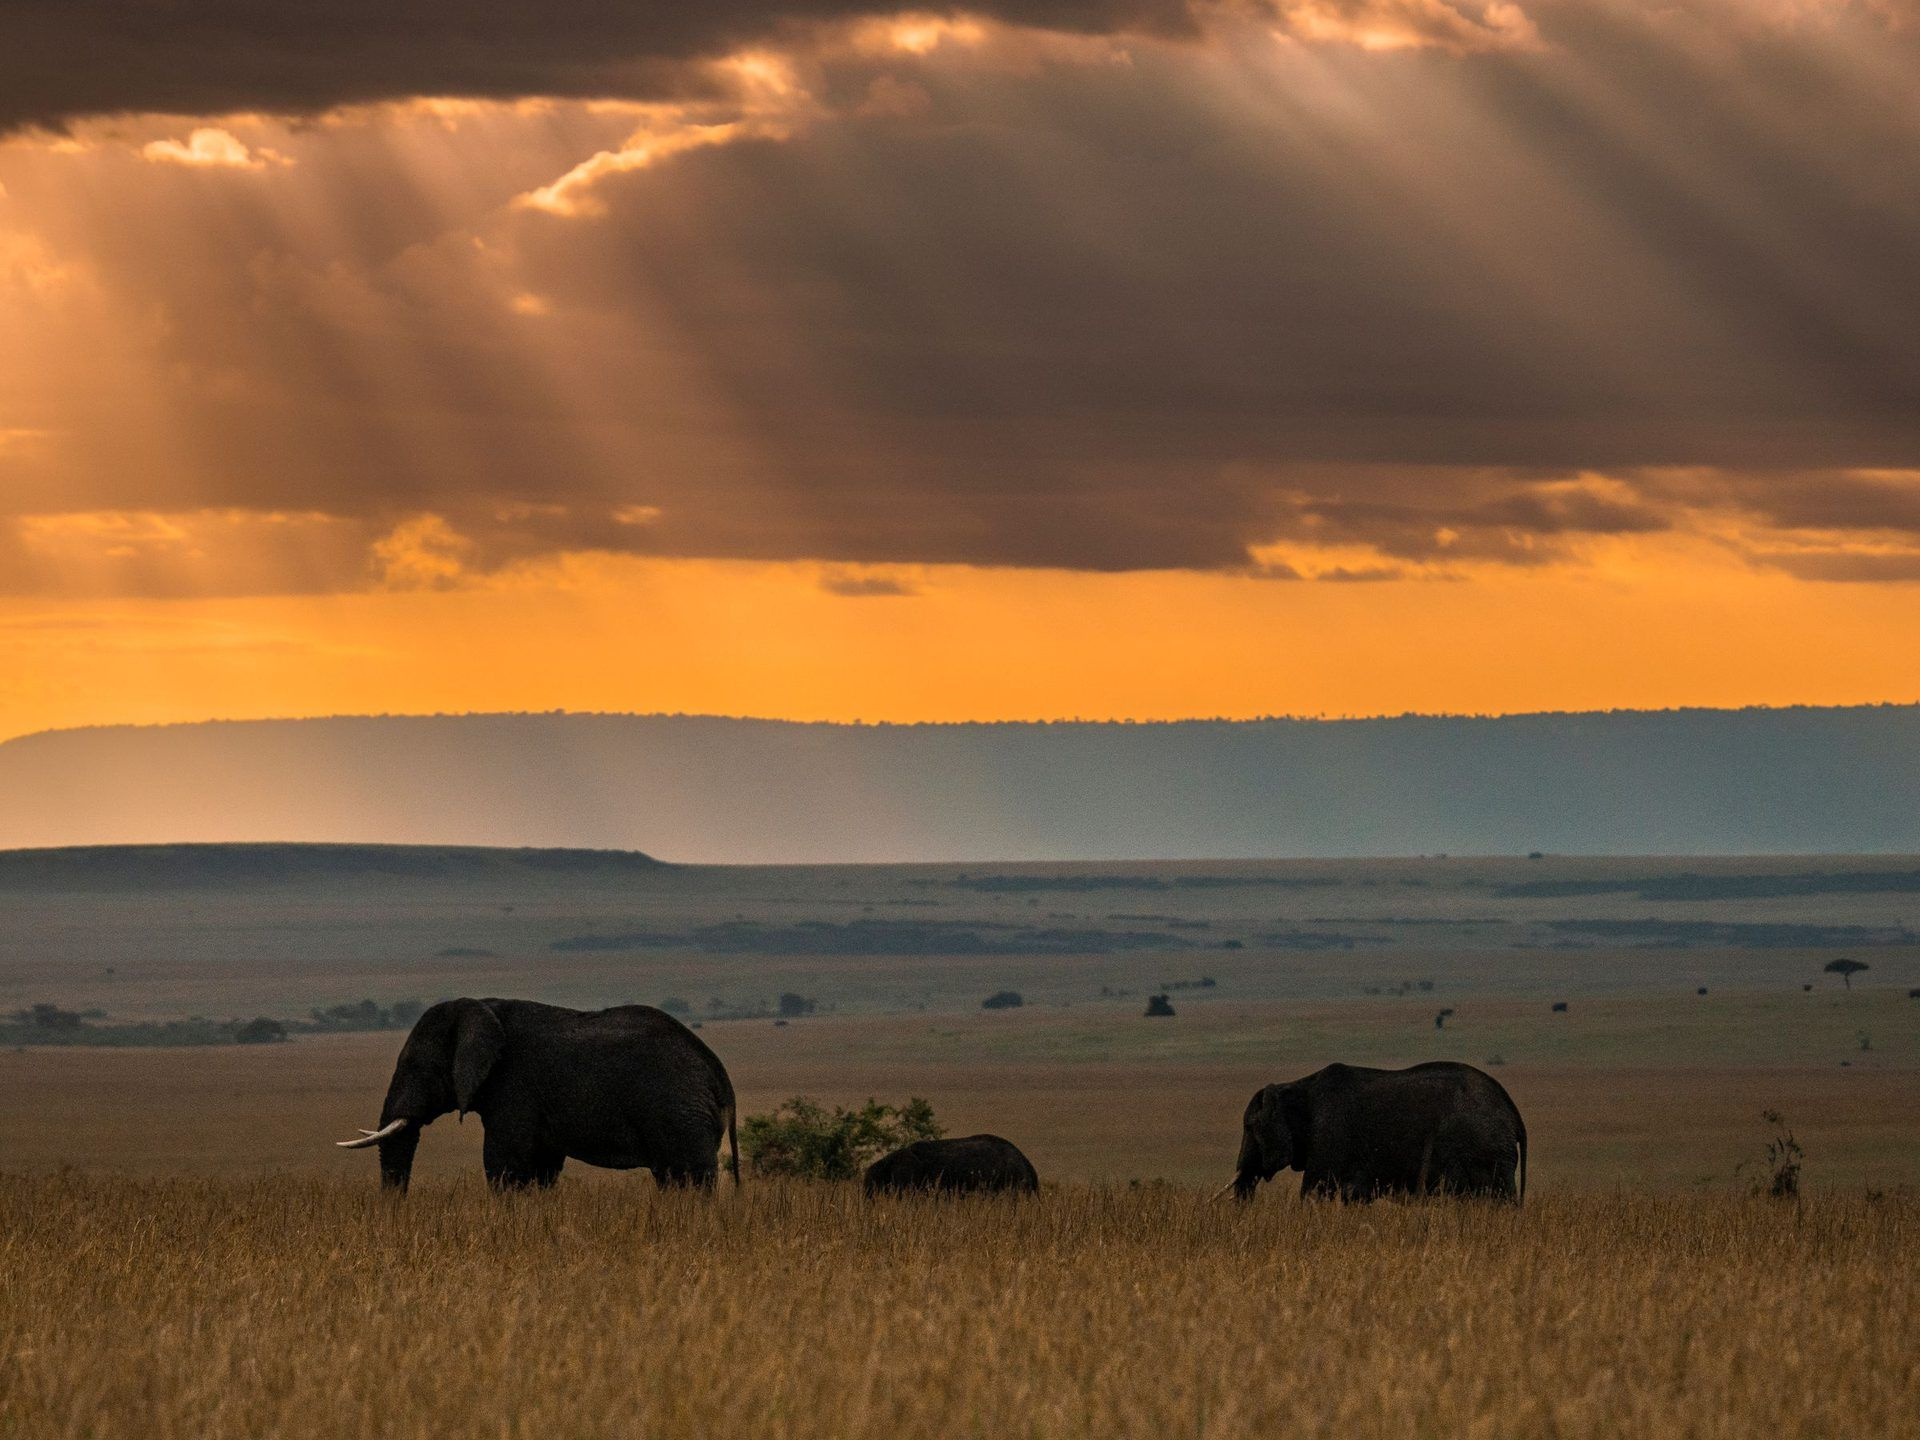
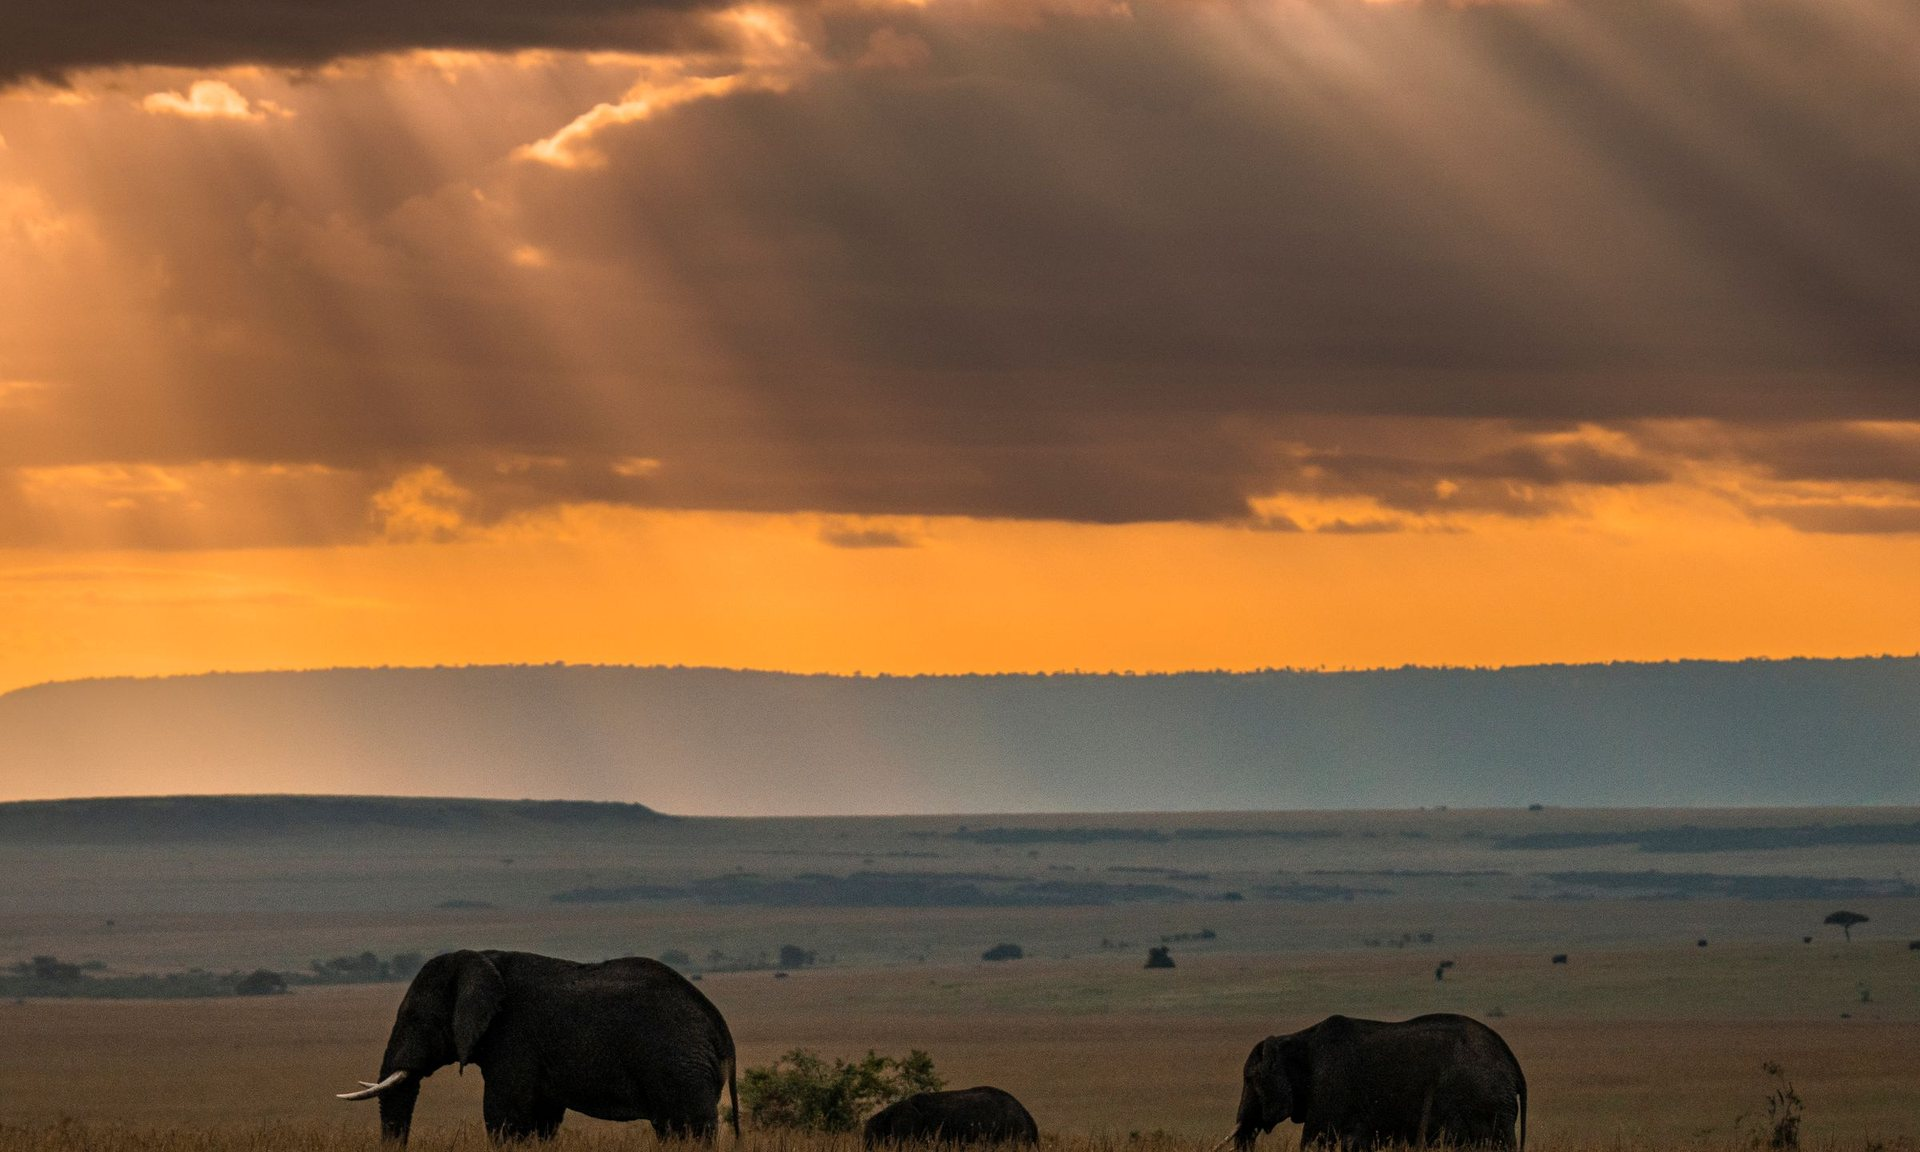
Show the safari elephants clearly in the hero crop
Use a wider crop and a lighter overlay so the herd stays visible behind the headline, with the sky still dark enough for the text.

diff --git a/index.html b/index.html
@@ -70,9 +70,9 @@ h1,h2,h3{font-family:var(--head);font-weight:600;line-height:1.1;margin:0}
 /* hero */
 .hero{position:relative;min-height:min(78vh,680px);display:flex;align-items:flex-end;color:#fff;overflow:hidden}
 .hero picture{position:absolute;inset:0;width:100%;height:100%;overflow:hidden}
-.hero picture img{position:absolute;inset:0;width:100%;height:100%;object-fit:cover;object-position:center 40%;transform:scale(1.04);transform-origin:50% 30%;animation:hero-zoom 26s ease-out forwards}
+.hero picture img{position:absolute;inset:0;width:100%;height:100%;object-fit:cover;object-position:center 62%;transform:scale(1.04);transform-origin:60% 50%;animation:hero-zoom 26s ease-out forwards}
 @keyframes hero-zoom{from{transform:scale(1.08)}to{transform:scale(1.02)}}
-.hero::after{content:"";position:absolute;inset:0;background:linear-gradient(180deg,rgba(10,15,25,.1) 0%,rgba(10,15,25,.28) 42%,rgba(10,15,25,.62) 72%,rgba(10,15,25,.86) 100%)}
+.hero::after{content:"";position:absolute;inset:0;background:linear-gradient(180deg,rgba(10,15,25,.12) 0%,rgba(10,15,25,.22) 45%,rgba(10,15,25,.48) 72%,rgba(10,15,25,.78) 100%)}
 .hero .wrap{position:relative;z-index:1;padding-bottom:56px;padding-top:80px}
 .eyebrow{font-size:.8rem;font-weight:600;letter-spacing:.12em;text-transform:uppercase;opacity:.92;margin:0 0 14px}
 .hero h1{font-size:clamp(2.6rem,7.5vw,5.2rem);letter-spacing:-.02em;max-width:12ch}
@@ -191,7 +191,7 @@ form .btn{width:100%}
   <source media="(max-width:800px)" type="image/webp" srcset="img/hero-m.webp">
   <source media="(max-width:800px)" type="image/jpeg" srcset="img/hero-m.jpg">
   <source type="image/webp" srcset="img/hero.webp">
-  <img src="img/hero.jpg" alt="Elephants walking through tall grass at sunset" width="1920" height="1440" fetchpriority="high">
+  <img src="img/hero.jpg" alt="Elephants walking through tall grass at sunset" width="1920" height="1152" fetchpriority="high">
  </picture>
  <div class="wrap">
   <p class="eyebrow" data-t="eyebrow">Tailor-made travel · Private guides</p>
